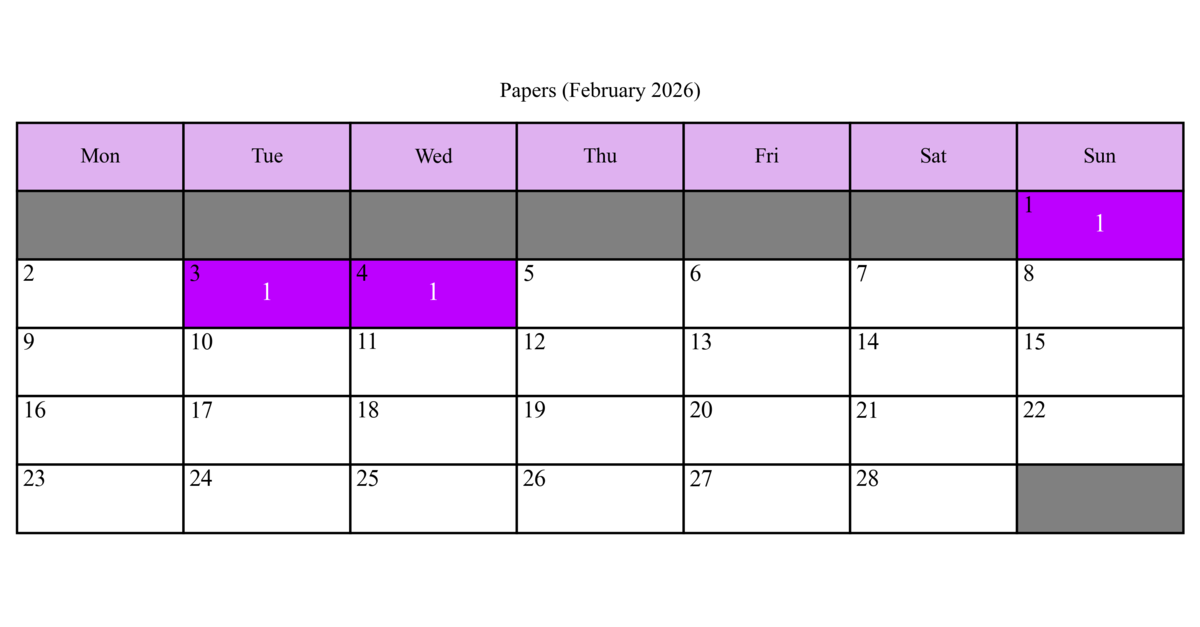
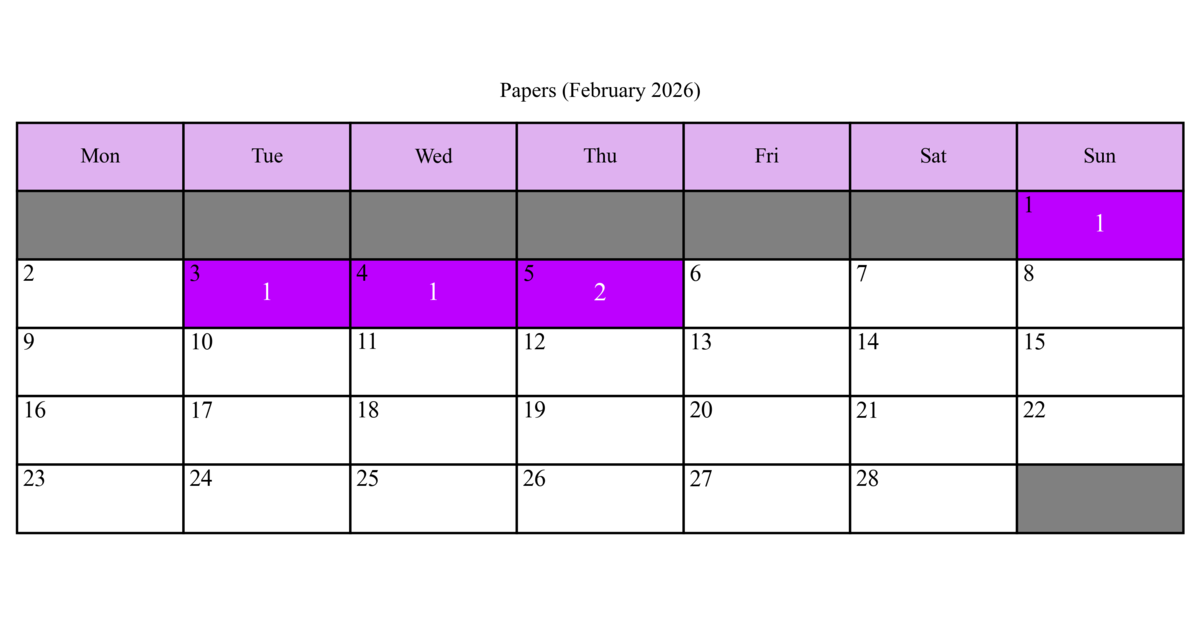
(Automated) updated paper log: February 06, 2026

Changed region(s): [[0.4317, 0.3939, 0.5858, 0.5455]]

diff --git a/papers/index.html b/papers/index.html
@@ -29,11 +29,13 @@
       <div class="main-content">
         <div class="main-section">
           <!-- <summary_text> -->
-<p>This is where I log the papers I've read this year. My goal for 2026 is to read 300 papers. By the time this document was last updated (<b>February 05, 2026</b>), I have read <b>17 papers</b> this year. I should have read <b>28 papers</b> by this time, meaning I am <b>11 papers behind schedule</b>.</p>
+<p>This is where I log the papers I've read this year. My goal for 2026 is to read 300 papers. By the time this document was last updated (<b>February 06, 2026</b>), I have read <b>19 papers</b> this year. I should have read <b>30 papers</b> by this time, meaning I am <b>11 papers behind schedule</b>.</p>
           <!-- </summary_text> -->
           <p><img src="cal.png" style="width: 100%;" alt="A monthly calendar depicting the following tabular data graphically."></p>
           <!-- <paper_table> -->
 <table>
+  <tr><td>2/5/26</td><td>ATLAHS: An Application-centric Network Simulator Toolchain for AI, HPC, and Distributed Storage</td><td><a href="https://dl.acm.org/doi/10.1145/3712285.3759838" target="_parent">Link</a></td><td>ETH Zurich, SC, 2025</td></tr>
+  <tr><td>2/5/26</td><td>Real-Time Object Detection and Recognition in FPGA-Based Autonomous Driving Systems</td><td><a href="https://www.ijcttjournal.org/archives/ijctt-v72i4p119" target="_parent">Link</a></td><td>Samsung, IJCTT, 2024</td></tr>
   <tr><td>2/4/26</td><td>Harmonic CUDA: Asynchronous Programming on GPUs</td><td><a href="https://dl.acm.org/doi/10.1145/3582514.3582517" target="_parent">Link</a></td><td>University of California/NVIDIA, PMAM, 2023</td></tr>
   <tr><td>2/3/26</td><td>Tawa: Automatic Warp Specialization for Modern GPUs with Asynchronous References</td><td><a href="https://arxiv.org/abs/2510.14719" target="_parent">Link</a></td><td>NVIDIA, CGO, 2026</td></tr>
   <tr><td>2/1/26</td><td>BetterTogether: An Interference-Aware Framework for Fine-grained Software Pipelining on Heterogeneous SoCs</td><td><a href="https://ieeexplore.ieee.org/document/11242071" target="_parent">Link</a></td><td>University of California, IISWC, 2025</td></tr>
@@ -65,7 +67,7 @@
       <!-- <last_updated_text> --> 
 <div class="last-updated">
   <p class="last-updated-text">
-    Last updated: February 05, 2026 at 02:13 UTC.
+    Last updated: February 06, 2026 at 17:10 UTC.
   </p>
 </div>
 
